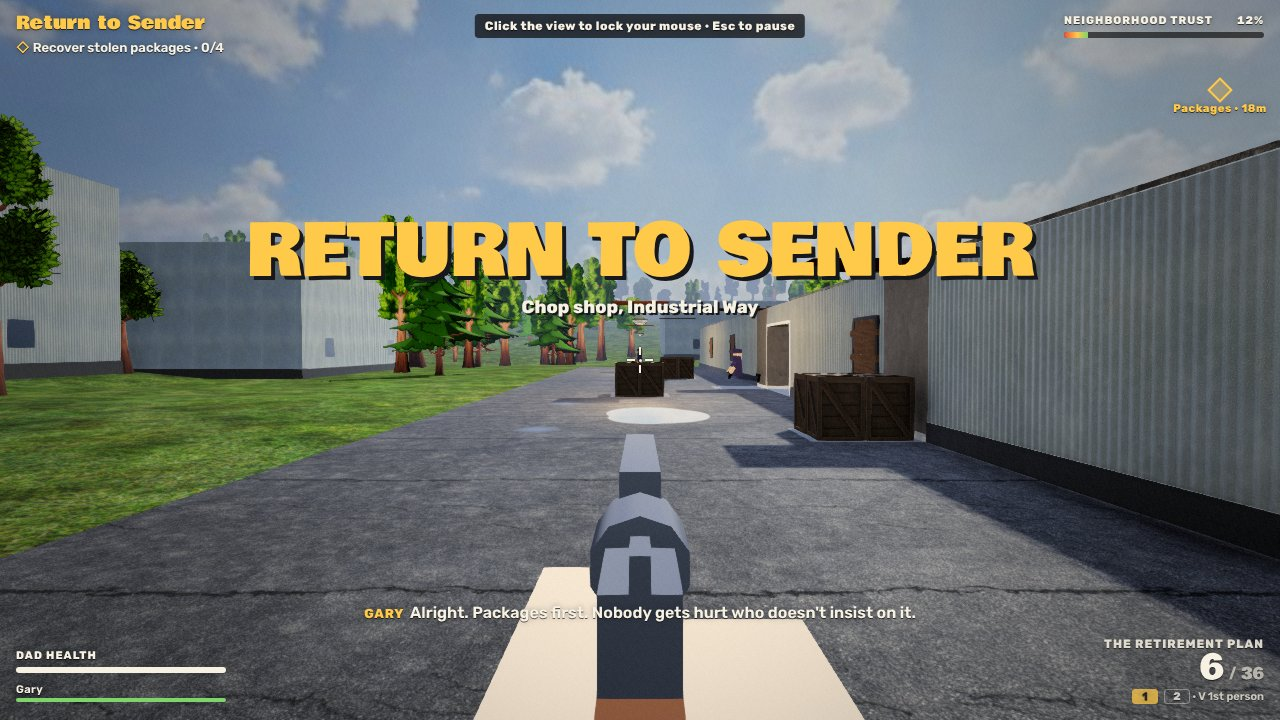
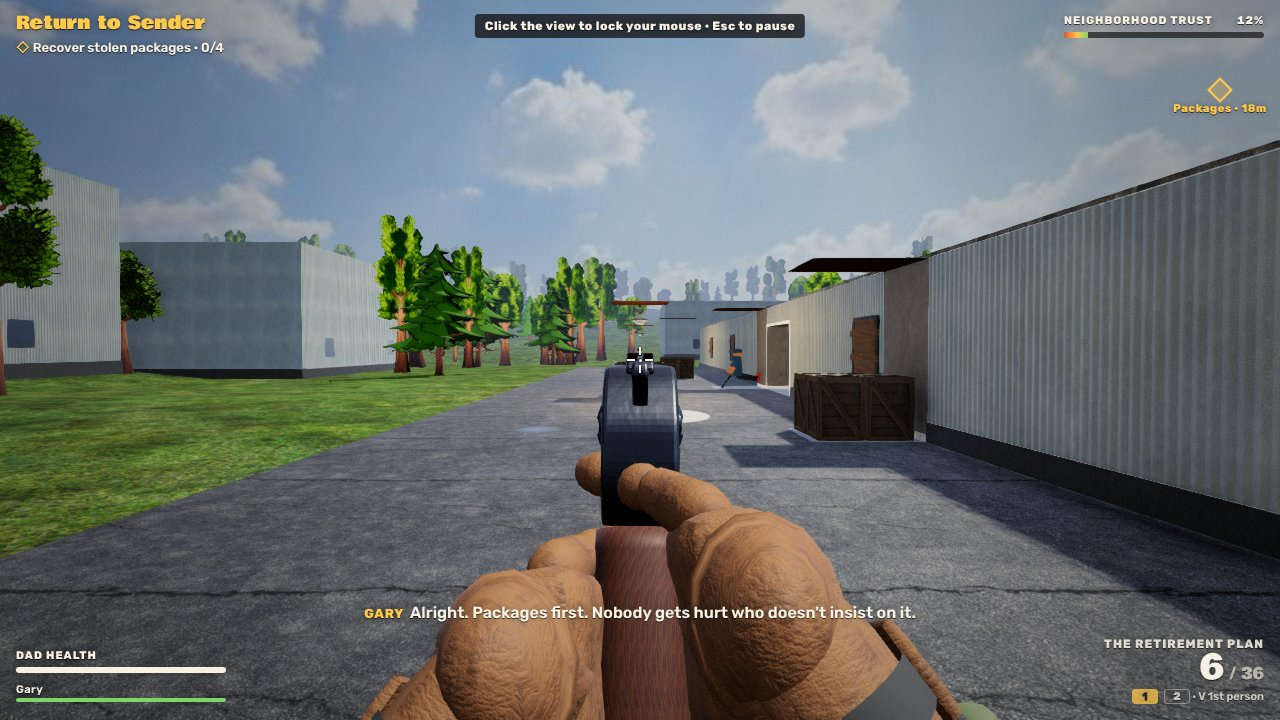
Wire js/guns.js: real gun models and first-person rigs, rig ADS FOV and muzzle; refresh combat screenshots
Claude-Session: https://claude.ai/code/session_01N2EZBGHmyGk9TBfGkoa1hi

Changed region(s): [[0.2812, 0.4889, 0.7812, 1.0], [0.1875, 0.3056, 0.8125, 0.4583], [0.5625, 0.4889, 0.5938, 0.55]]

diff --git a/index.html b/index.html
@@ -184,6 +184,7 @@ html,body{height:100%;margin:0;background:var(--ink);color:var(--paper);font-fam
 <script src="https://cdn.jsdelivr.net/npm/three@0.128.0/examples/js/postprocessing/UnrealBloomPass.js"></script>
 <script src="js/fx.js"></script>
 <script src="js/audio.js"></script>
+<script src="js/guns.js"></script>
 <script src="js/buildings.js"></script>
 <script src="js/vehicles.js"></script>
 <script src="js/world.js"></script>
@@ -882,7 +883,8 @@ function setViewGun(t){if(vmGun)vm.remove(vmGun);vmGun=null;if(vmRig){vm.remove(
 function vmKick(c){if(vmRig){try{vmRig.fire&&vmRig.fire()}catch(e){}return}vmS.vz+=c.back*60;vmS.vrx+=c.rise*60;vmS.vrz+=rand(-1,1)*c.roll*60;vmS.vx+=rand(-1,1)*c.side*60}
 function vmSpring(dt,c){const h=Math.min(dt,1/60),n=Math.max(1,Math.round(dt/h));for(let i=0;i<n;i++)for(const k of['x','y','z','rx','rz']){const vk='v'+k,acc=-c.k*vmS[k]-c.damp*vmS[vk];vmS[vk]+=acc*dt/n;vmS[k]+=vmS[vk]*dt/n}}
 function vmPose(dt){const w=WEAPONS[P.cur]||WEAPONS.pistol,t=P.adsT,rl=P.reloadT>0;
-  if(vmRig){vm.position.set(0,0,0);vm.rotation.set(0,0,0);try{vmRig.update(dt,{ads:t,moving:P.moving,sprint:keys.shift&&!P.aim&&P.moving,crouch:P.crouch})}catch(e){}
+  if(vmRig){vm.position.set(0,0,0);vm.rotation.set(0,0,0);try{vmRig.update(dt,{ads:t,moving:P.moving,sprint:keys.shift&&!P.aim&&P.moving,crouch:P.crouch});
+      const f=72*(1-(vmRig.adsT||0)*(1-(vmRig.userData.adsFov||1)));if(Math.abs(vmCam.fov-f)>.01){vmCam.fov=f;vmCam.updateProjectionMatrix()}}catch(e){}
     vm.visible=vm.visible&&!P.scoped;scopeEl().style.display=P.scoped?'block':'none';return}
   const ax=w.slot==='side'?.0:.0,ay=w.slot==='side'?-.17:-.15;
   vm.position.set(lerp(.24,ax,t)+vmS.x,lerp(-.22,ay,t)+Math.sin(P.dude.walk)*.01*(1-t*.7)+vmS.y,(rl?-.32:lerp(-.45,-.36,t))+vmS.z);
@@ -1163,7 +1165,9 @@ function curSpread(){const w=WEAPONS[P.cur];if(!w)return .01;const mf=clamp(P.sp
 function fallMul(w,d){return d<=w.fall[0]?1:d>=w.fall[1]?w.fall[2]:1-(1-w.fall[2])*(d-w.fall[0])/(w.fall[1]-w.fall[0])}
 const ray=new THREE.Raycaster();
 function camFwd(){return V3(-Math.sin(P.yaw)*Math.cos(P.pitch),Math.sin(P.pitch),-Math.cos(P.yaw)*Math.cos(P.pitch))}
-function muzzle(){const w=WEAPONS[P.cur];if(P.fp){const len=w&&w.slot==='side'?.85:1.1;return V3(lerp(.24,.0,P.adsT),lerp(-.16,-.08,P.adsT),-len).applyQuaternion(camera.quaternion).add(camera.position)}
+function muzzle(){const w=WEAPONS[P.cur];
+  if(P.fp&&vmRig&&vmRig.userData.muzzle){try{vmCam.updateMatrixWorld(true);const m=vmCam.worldToLocal(vmRig.userData.muzzle.getWorldPosition(V3()));if(m.z<-.2)return camera.localToWorld(m.multiplyScalar(1.6))}catch(e){}}
+  if(P.fp){const len=w&&w.slot==='side'?.85:1.1;return V3(lerp(.24,.0,P.adsT),lerp(-.16,-.08,P.adsT),-len).applyQuaternion(camera.quaternion).add(camera.position)}
   const f=V3(-Math.sin(P.yaw),0,-Math.cos(P.yaw)),r=V3(Math.cos(P.yaw),0,-Math.sin(P.yaw));const m=P.pos.clone().add(V3(0,P.crouch?1.05:1.38,0)).addScaledVector(f,.9).addScaledVector(r,.33);
   const o=P.pos.clone().add(V3(0,P.crouch?1.05:1.38,0)),d=m.clone().sub(o),l=d.length();ray.set(o,d.normalize());ray.near=0;ray.far=l;const h=L?ray.intersectObjects(L.solids,false)[0]:null;return h?o.addScaledVector(d,Math.max(0,h.distance-.08)):m}
 function ejectShell(id){const w=WEAPONS[id];if(!w||!w.shell)return;const mz=muzzle(),fwd=camFwd();const right=V3(Math.cos(P.yaw),0,-Math.sin(P.yaw));FX.shell(mz.addScaledVector(fwd,-.3),right.add(V3(0,.5,0)).normalize(),w.shell)}

diff --git a/docs/combat-integration.md b/docs/combat-integration.md
@@ -9,9 +9,9 @@ Design source: `docs/design/SPEC.md` sections A (weapon feel) and B (pickups).
 |---|---|---|
 | `js/fx.js` (`HT.FX`) | Loaded and used for muzzle flashes, tracers, impacts and decals, brass and hulls, camera shake and kick, damage direction, hit pulse, low-health grade, pickup glow, zip-tie `+TRUST` pop. The grade pass gets `FX.GRADE` (desaturate, hurt, blur, pulse). | `const FX` is a no-op proxy, so every call does nothing. |
 | `js/audio.js` (`HT.Audio`) | Loaded. Used for per-gun shots (the player's own and positional NPC shots), mechanics (`dry`, `reload_out`, `reload_in`, `pump`, `bolt`, `shell`, `equip`), impacts by surface, hit and kill ticks, pickup UI, footsteps, near-miss whizz, shell bounces, the minivan engine, horn and crash, and music and ambience states (hub, tension, combat, victory or fail). `snd()` forwards to `HT.Audio.legacy`. | The built-in synth: `gunSnd(id)` plays the SPEC A.2 recipes (crack, body, thump, tail and echo, mech), `sfx()` plays clicks, and `snd()` keeps its old behaviour. |
-| `js/guns.js` (`HT.Guns`) | Adapter only. The script tag is **not** added yet, because the file is still on `work/guns`. When it is present: `makeGun()` wraps `HT.Guns.model()` (turned 180°, since the module's guns point down -Z), `setViewGun()` builds `HT.Guns.viewmodel(type)` into the view-model scene, `vmKick()` calls `rig.fire()`, `reload()` calls `rig.reload(dur, empty)`, `vmPose()` calls `rig.update(dt, {ads, moving, sprint, crouch})`, and `HT.Guns.init({assets})` runs at boot. | Procedural box-and-cylinder guns, nine different silhouettes, plus forearms and a per-gun spring kick. |
+| `js/guns.js` (`HT.Guns`) | Loaded. `makeGun()` wraps `HT.Guns.model()` (turned 180°, because the module's guns point down -Z) for every held, NPC and pickup gun. `setViewGun()` builds `HT.Guns.viewmodel(type)` (arms and hands included) into the view-model scene. `vmKick()` calls `rig.fire()`, `reload()` calls `rig.reload(dur, empty)`, and `vmPose()` calls `rig.update(dt, {ads, moving, sprint, crouch})` and sets `vmCam.fov` from `rig.adsT` and `userData.adsFov`. The first-person `muzzle()` uses `rig.userData.muzzle`, so flashes and tracers leave the real barrel. `HT.Guns.init({assets})` runs at boot, and the guns are rebuilt when it resolves. | Procedural box-and-cylinder guns, nine different silhouettes, plus forearms and a per-gun spring kick (`vmS`). |
 
-To turn on `guns.js`, add `<script src="js/guns.js"></script>` next to `fx.js`/`audio.js`. No other change is needed.
+Not wired yet: `HT.Guns.attachToHand` (Rocketbox hand bones). `index.html` still uses the box characters with a `gunHold` group. Whoever swaps the characters should call `attachToHand(bone, makeGun(type), type)` inside `equip()`.
 
 ## Data (`WEAPONS`, `AMMO`, `NPC_GUNS`, `MISSION_ARMS`)
 
@@ -21,7 +21,7 @@ Ammo is typed: `P.pool[type]`. Each `P.ammo[gun]` is `{mag, res}`, where `res` i
 
 ## Functions and regions touched
 
-- **Script tags**: `js/fx.js`, `js/audio.js`.
+- **Script tags**: `js/fx.js`, `js/audio.js`, `js/guns.js`.
 - **RENDER**: `GradeShader` uniforms and GLSL (`fxSample` and `fxGrade`), `R.apply` (FX quality and `bindGrade`), `R.mats.grade`.
 - **Removed**: `flashTex`, `flashes`, `muzzleFlash`, `updFlashes`, the `flash` PointLight, `tracerMat*`, `tracer()`, `puffG`. `puff()` is now a one-line FX dust call, used by the stash smash.
 - **AUDIO**: `initAudio` (also calls `HT.Audio.init` and wires the FX shell and near-miss hooks), and `snd` (bridge).
